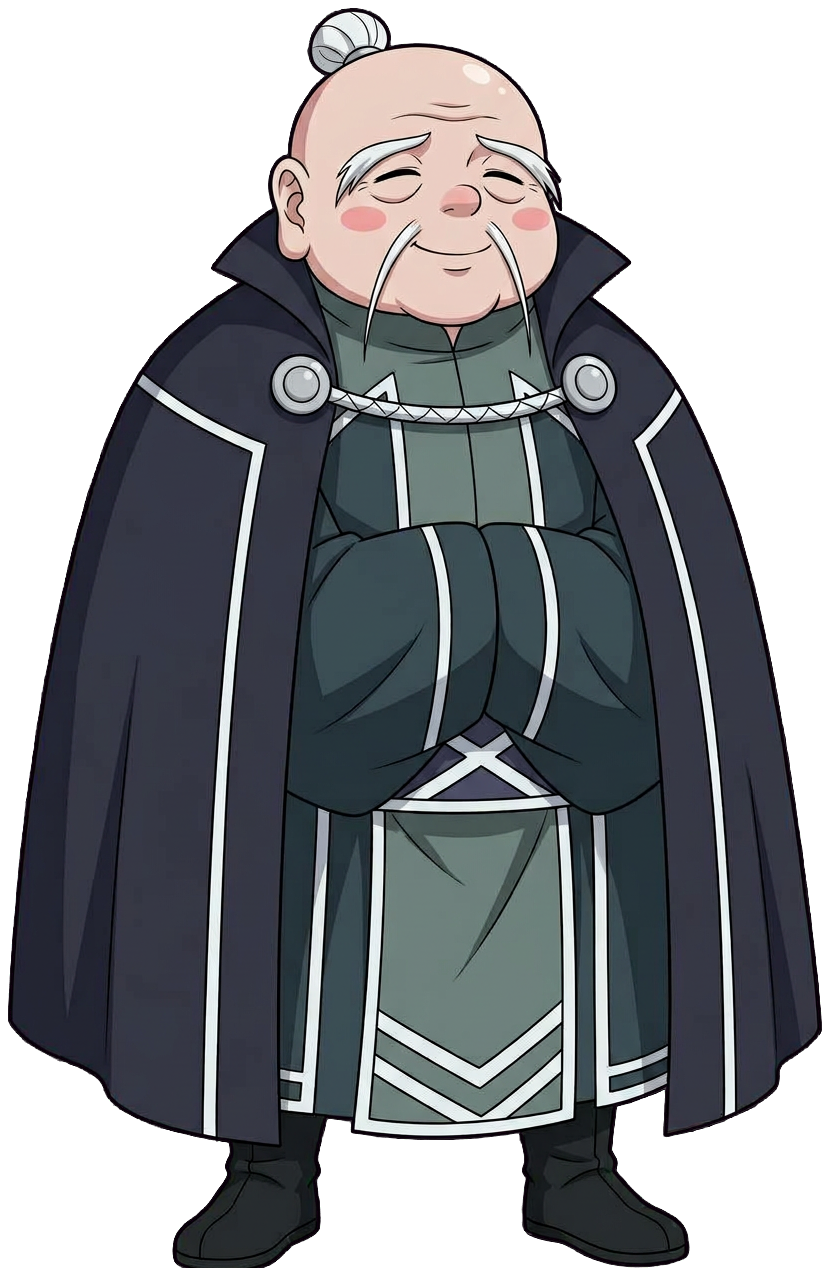
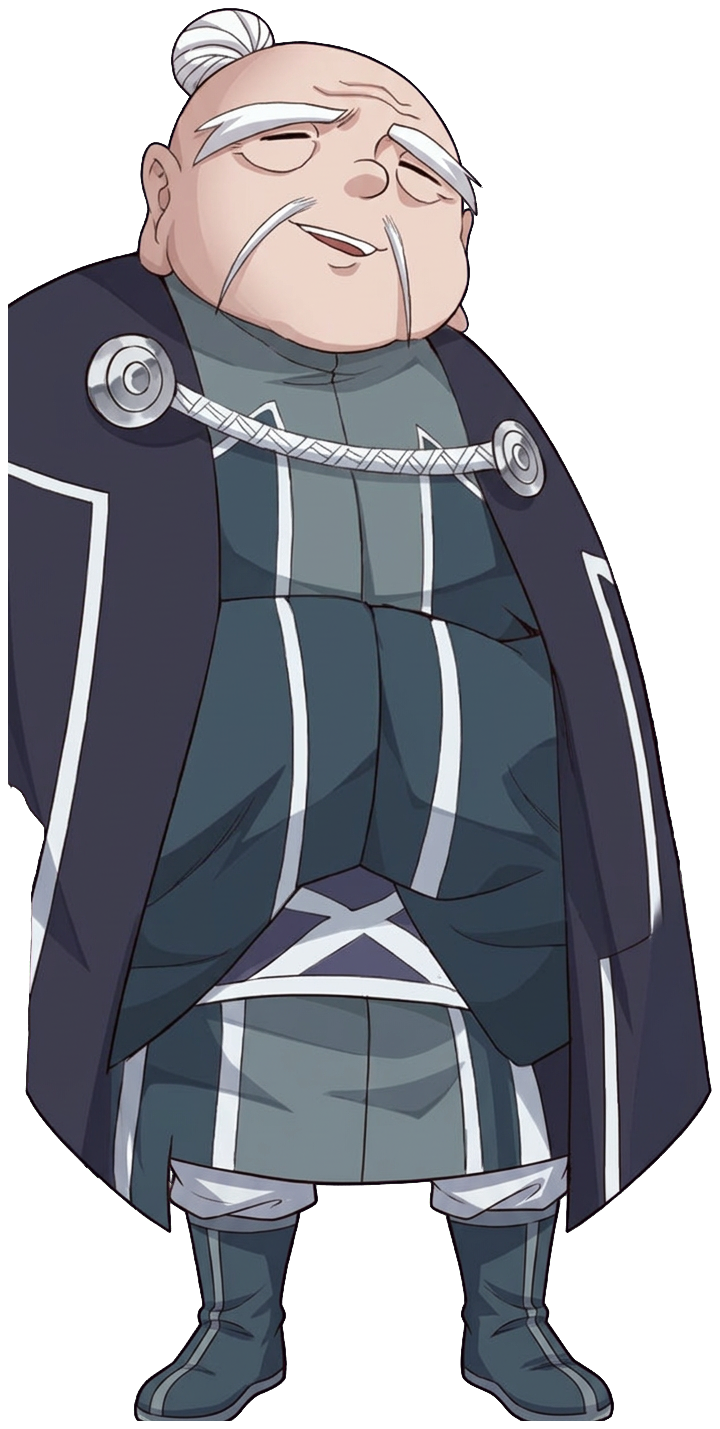
art: 黑衣老者 v3 按 263-40 原格抠图还原（v2 备份 base_cut_old）；对比图；进度记录

diff --git a/dev/design/漫画复核进度.md b/dev/design/漫画复核进度.md
@@ -371,3 +371,7 @@
 - **v3 方法（以后一律照此）**：只给生成器一张漫画原格（必要时加一张同人脸部特写）做“编辑”，指令＝原样抠出、不重画不美化；只去背景/对话框/速度线/特效/偏色光，只补被格子边或特效挡住的部分（多为腿脚）。出图后与原格并排逐项核对。
 - v3 已做 9 张：shitian(358)、yichen(292-11)、linlao(263-40+264-12脸)、chenxian(274-17)、yezhanglao(249-11 原格扑击姿势)、hun_tiandi_crack(465-19)、bingxuan/binghua(257-21 小人放大)、renxiezi(364-14 趴地原姿)。对比：dev/review/抠图还原v3对比_20260930.html、对比_*_抠图v3.jpg。黑衣老者暂留 v2（本轮次数用完，下轮按 v3 重抠 263-40）。
 - 待用户定：陈闲发色（274-17 青光下偏灰；274-18 黑发那格疑非本人）；人蝎子漫画只有趴地姿势——战斗站立图改姿势还是只作剧情图；叶家长老用原格扑击姿势是否可以；魂天帝龟裂/冰玄/冰华 原格小、分辨率偏低。
+
+## 2026-11-02 美术收尾（黑衣老者 v3）
+- 黑衣老者 heiyilaozhe：按 263-40 原格，以 v3 方法（原样抠出、不重画）重做，源图 dev/art_src/refs_raw/r108/heiyi_263-40.jpg，生成原图 dev/art_src/gen_raw/heiyilaozhe_v3_raw.png，抠图 dev/art_src/base_cut/heiyilaozhe.png；旧 v2 备份在 base_cut_old/heiyilaozhe_v2_before_v3.png。对比 dev/review/对比_heiyilaozhe_抠图v3.jpg。腿脚为原格裁掉部分，补全。🆕 待用户审。
+- 待用户定（未动）：陈闲（274-17 身份与发色）；人蝎子站姿；天蝎子/地蝎子/323 少年 尚未出图。
